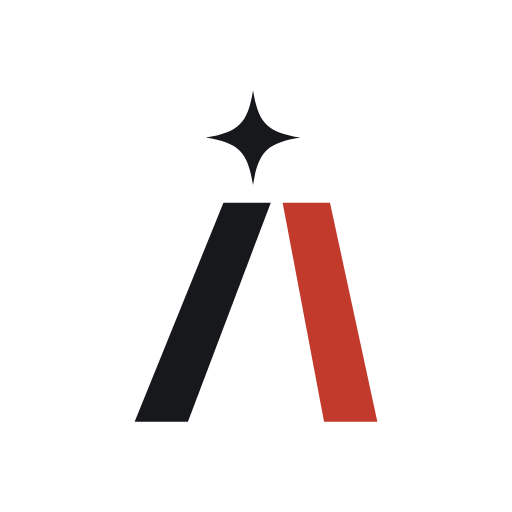
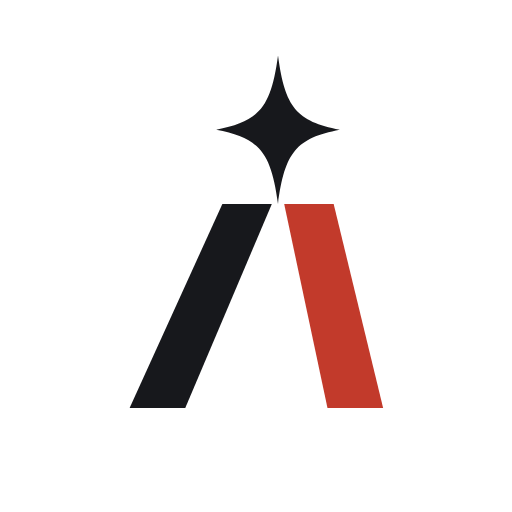
Brand mark: enlarged sparkle sitting in the gap at the apex, optically centred

diff --git a/web/src/components/BrandMark.vue b/web/src/components/BrandMark.vue
@@ -4,9 +4,11 @@ defineProps<{ size?: number }>()
 
 <template>
   <svg :width="size ?? 28" :height="size ?? 28" viewBox="0 0 64 64" aria-hidden="true" class="brand-mark">
-    <path d="M32 2C32.9 7.6 34.4 9.1 40 10C34.4 10.9 32.9 12.4 32 18C31.1 12.4 29.6 10.9 24 10C29.6 9.1 31.1 7.6 32 2Z" fill="currentColor" />
-    <path d="M27 21H35L21 58H12Z" fill="currentColor" />
-    <path d="M37 21H45L53 58H44Z" fill="var(--seal)" />
+    <g transform="translate(32 31.5) scale(0.991) translate(-32.44 -32.91)">
+      <path d="M36 1 C37.12 9.4 39 11.65 46 13 C39 14.35 37.12 16.6 36 25 C34.88 16.6 33 14.35 26 13 C33 11.65 34.88 9.4 36 1 Z" fill="currentColor" />
+      <path d="M27 25H35L21 58H12Z" fill="currentColor" />
+      <path d="M37 25H45L53 58H44Z" fill="var(--seal)" />
+    </g>
   </svg>
 </template>
 
